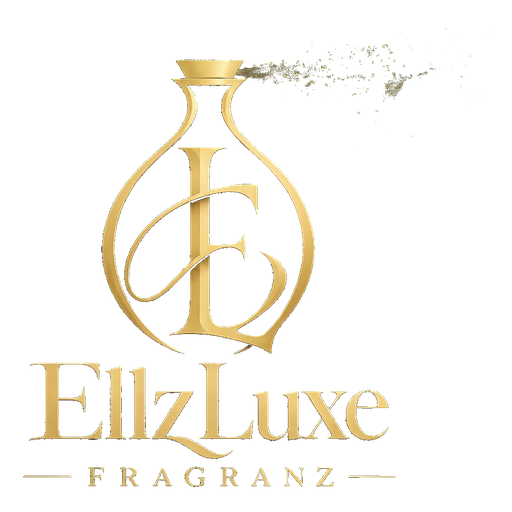
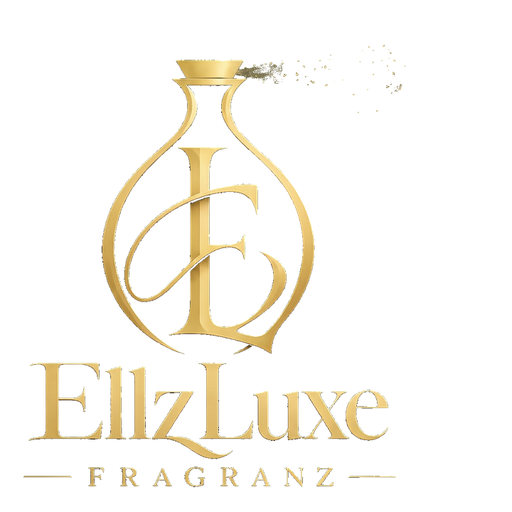
Give the house mark a solid white background instead of green.

Changed region(s): [[0.5312, 0.0938, 0.75, 0.1875], [0.75, 0.125, 0.8438, 0.1875], [0.0625, 0.9062, 0.125, 0.9375]]

diff --git a/src/components/brand/logo.tsx b/src/components/brand/logo.tsx
@@ -12,15 +12,15 @@ export function BrandLogo({
   priority?: boolean;
 }) {
   return (
-    <Link href="/" className={cn("inline-flex shrink-0", className)} aria-label="EllzLuxe Fragranz home">
+    <Link href="/" className={cn("inline-flex shrink-0 bg-white", className)} aria-label="EllzLuxe Fragranz home">
       <Image
-        src="/images/logo-mark.png"
+        src="/images/logo-white.png"
         alt="EllzLuxe Fragranz"
         width={size}
         height={size}
         priority={priority}
         unoptimized
-        className="h-auto w-full object-contain"
+        className="h-auto w-full bg-white object-contain"
       />
     </Link>
   );
